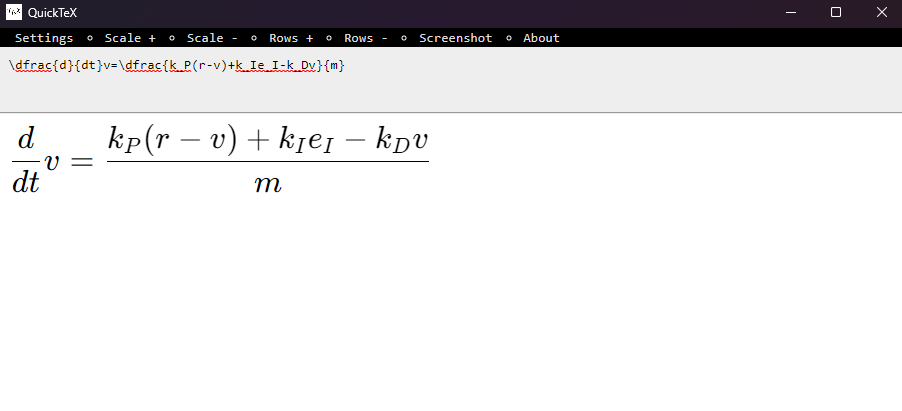
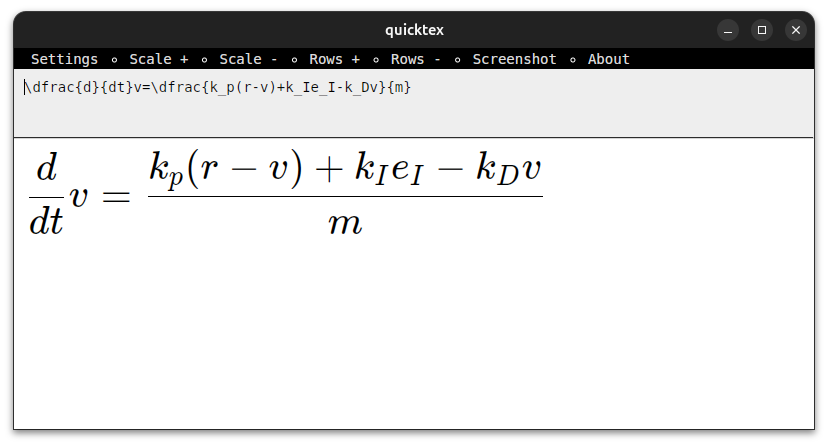
fixed showcase and readme

Changed region(s): [[0.0, 0.0, 1.0, 0.9927]]

diff --git a/src/components/ExtendedKatexContainer.vue b/src/components/ExtendedKatexContainer.vue
@@ -55,7 +55,7 @@
     })
 
     const style = computed<any>(() => {
-        return `padding-bottom:${4 * props.scaling + 4}px;width: min-content;display:flex;flex-direction:column;align-items:${alignStyle.value}`;
+        return `padding-bottom:${4 * props.scaling + 4}px;gap:${4 * props.scaling + 4}px;width: min-content;display:flex;flex-direction:column;align-items:${alignStyle.value}`;
     })
 </script>
 

diff --git a/README.md b/README.md
@@ -1,16 +1,18 @@
-# Tauri + Vue + TypeScript
+![Logo for QuickTeX](.github/splash.png)
+QuickTeX is a desktop tool for quickly rendering KaTeX compatible LaTeX. It also provides a few utilities for scaling and screenshotting the output.
 
-This template should help get you started developing with Vue 3 and TypeScript in Vite. The template uses Vue 3 `<script setup>` SFCs, check out the [script setup docs](https://v3.vuejs.org/api/sfc-script-setup.html#sfc-script-setup) to learn more.
+# How to build
+This project uses Tauri to display content and Vue as the UI framework. So Rust and Node are required. Follow these steps to build for your own system.
 
-## Recommended IDE Setup
+1. Run `npm install` in the root directory
+2. Run `npm run tauri build` in the root directory
 
-- [VS Code](https://code.visualstudio.com/) + [Volar](https://marketplace.visualstudio.com/items?itemName=Vue.volar) + [Tauri](https://marketplace.visualstudio.com/items?itemName=tauri-apps.tauri-vscode) + [rust-analyzer](https://marketplace.visualstudio.com/items?itemName=rust-lang.rust-analyzer)
+After running this, the path of the executable will be emitted, should be somewhere in `./src-tauri/target/**/*`
 
-## Type Support For `.vue` Imports in TS
-
-Since TypeScript cannot handle type information for `.vue` imports, they are shimmed to be a generic Vue component type by default. In most cases this is fine if you don't really care about component prop types outside of templates. However, if you wish to get actual prop types in `.vue` imports (for example to get props validation when using manual `h(...)` calls), you can enable Volar's Take Over mode by following these steps:
-
-1. Run `Extensions: Show Built-in Extensions` from VS Code's command palette, look for `TypeScript and JavaScript Language Features`, then right click and select `Disable (Workspace)`. By default, Take Over mode will enable itself if the default TypeScript extension is disabled.
-2. Reload the VS Code window by running `Developer: Reload Window` from the command palette.
-
-You can learn more about Take Over mode [here](https://github.com/johnsoncodehk/volar/discussions/471).
+# Showcase
+## QuickTeX logo
+![Showcase1](.github/showcase1.png)
+## Differential equation
+![Showcase2](.github/showcase2.png)
+## Aligned multiline equations
+![Showcase3](.github/showcase3.png)
